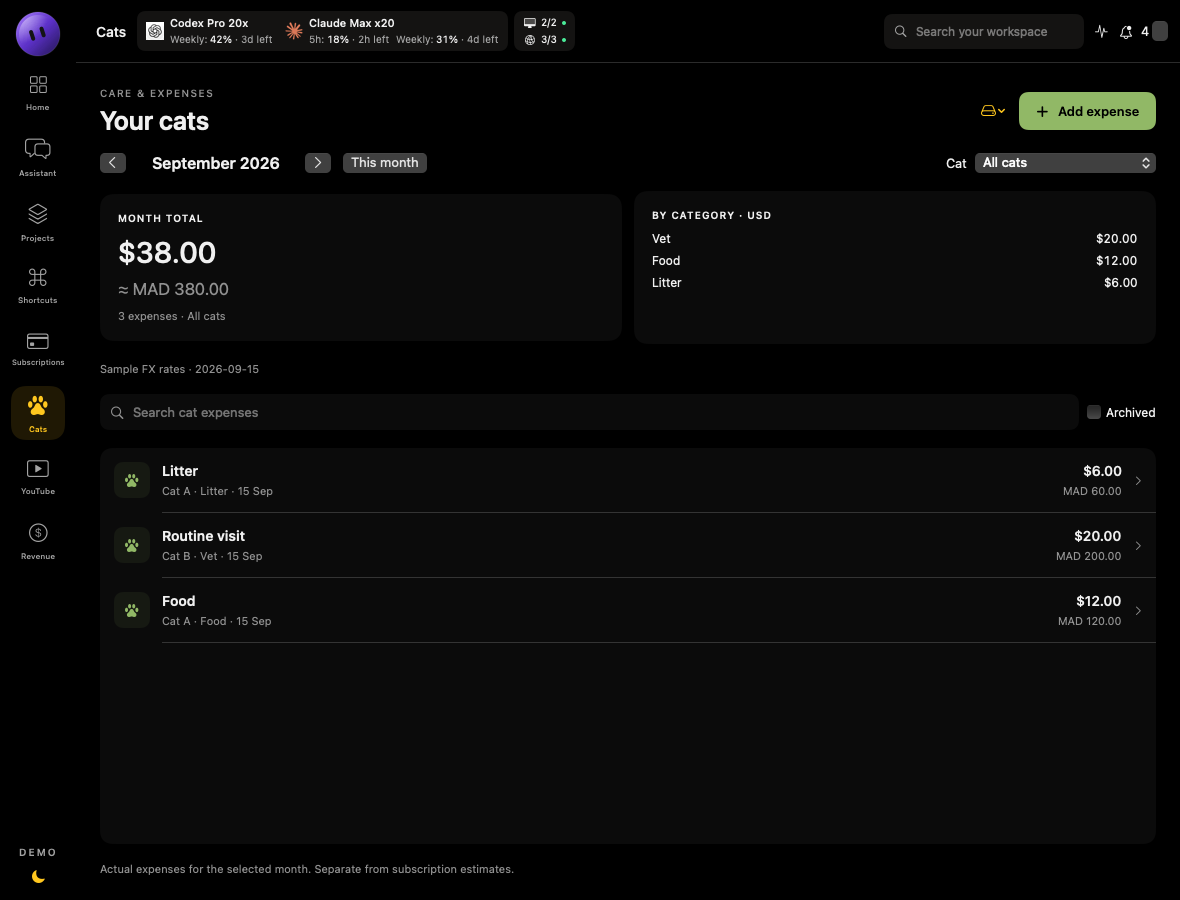
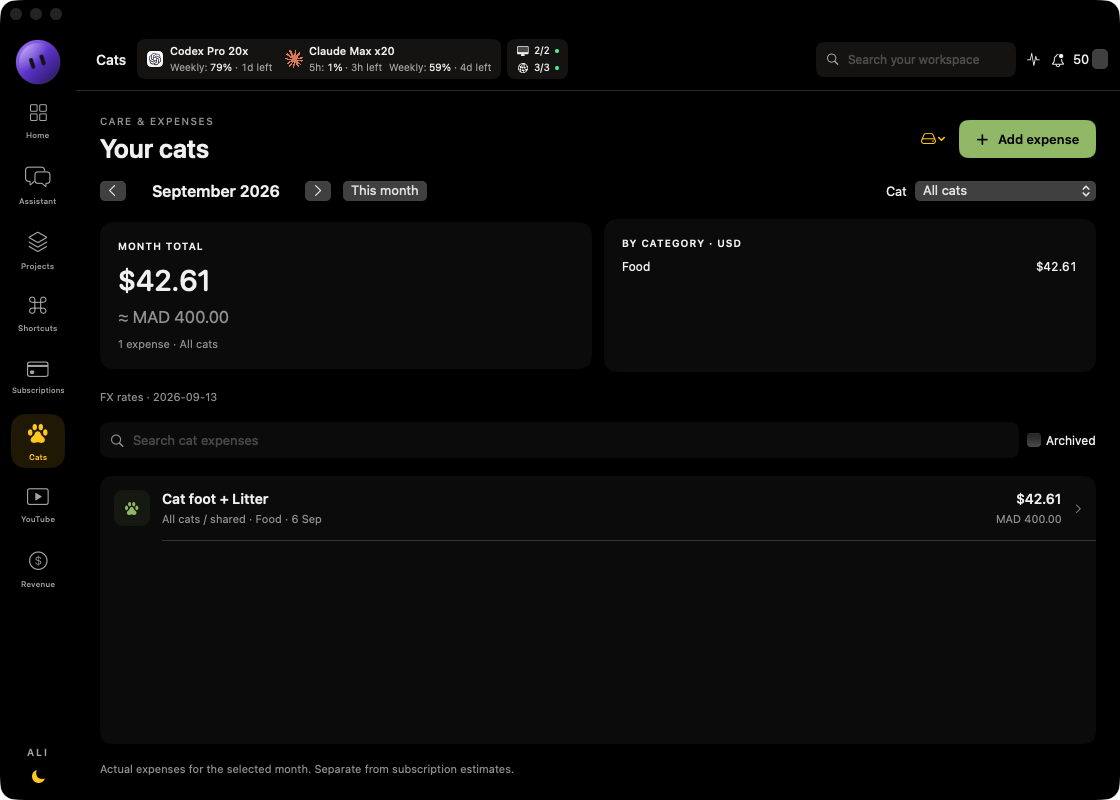
use real app screenshots for subscriptions and cats

diff --git a/README.md b/README.md
@@ -4,7 +4,7 @@
 
 Jarvis brings projects, shortcuts, subscriptions, cat expenses, YouTube analytics and account-usage indicators into one workspace. A floating widget keeps quotas and channel shortcuts within reach while using other apps.
 
-This public edition uses the application's original views. Subscription **provider and plan names** come from my actual list, with account labels, stores, domains and other identifying additions removed. Subscription amounts, dates, cycles and statuses are fictional. Channel names, projects, financial figures, machine details and account readings are also samples. Private integrations are disconnected; sample subscription amounts are not provider prices.
+This public edition uses the application's original views. The **subscriptions and cat expenses screenshots below are captures of my running personal app**, so their records, amounts, dates and totals are real. Every other screenshot, and the demo you can build from this repository, uses fictional data: subscription **provider and plan names** come from my actual list, with account labels, stores, domains and other identifying additions removed, while amounts, dates, cycles and statuses are invented. Channel names, projects, financial figures, machine details and account readings are also samples. Private integrations are disconnected; sample subscription amounts are not provider prices.
 
 ## Workspace
 
@@ -24,13 +24,13 @@ The widget uses the same quota strip and detail views as the dashboard. Its read
 
 ## Subscriptions
 
-![Orbit subscription interface with sanitized provider names and sample billing data](docs/images/subscriptions.png)
+![Orbit subscription interface with my real providers and billing data](docs/images/subscriptions.png)
 
 The original Orbit interface includes monthly and yearly USD/MAD totals, billing-cycle conversion, a renewal timeline, trials, ending plans, records needing review, search, sorting and archiving. The subscription editor retains price and date certainty, reminder settings, notes and source fields. Unknown costs and missing exchange rates are disclosed rather than counted as zero.
 
 ## Expenses and analytics
 
-![Cat expenses with fictional records](docs/images/cats.png)
+![Cat expenses with my real records](docs/images/cats.png)
 
 Cat expenses retain the original monthly view, category totals, search, filters, editing, archiving and import/export controls.
 
@@ -71,7 +71,7 @@ bash scripts/test-core.sh
 swift run JarvisDemo --check
 ```
 
-The checks cover configuration recovery, URL validation, fixture decoding, subscription totals and edits, unknown costs, missing FX, cat archiving, analytics windows and session isolation. Screenshots are rendered from the demo views with `JarvisDemo --render OUTPUT_DIRECTORY`.
+The checks cover configuration recovery, URL validation, fixture decoding, subscription totals and edits, unknown costs, missing FX, cat archiving, analytics windows and session isolation. Screenshots are rendered from the demo views with `JarvisDemo --render OUTPUT_DIRECTORY`, except the subscriptions and cat expenses images, which are window captures of the personal app.
 
 See [architecture](docs/ARCHITECTURE.md), [source fidelity](docs/SOURCE_FIDELITY.md), [publication boundaries](docs/PUBLICATION.md) and [security](SECURITY.md).
 

diff --git a/docs/PUBLICATION.md b/docs/PUBLICATION.md
@@ -8,7 +8,7 @@ This repository was assembled as a separate public edition from explicitly selec
 - The original SwiftUI views with fictional fixtures and disconnected integration adapters.
 - Explicitly approved provider and plan names, stripped of account, store, domain, person and channel/community identifiers.
 - Behavioral tests and documentation.
-- PNG images rendered directly from the public demo views.
+- PNG images rendered directly from the public demo views, apart from the subscriptions and cat expenses screenshots, which are deliberately published window captures of the personal app.
 
 ## Excluded
 
@@ -16,7 +16,7 @@ This repository was assembled as a separate public edition from explicitly selec
 - Personal configuration, account identifiers and billing records.
 - Infrastructure addresses, service configuration and private workspace paths.
 - Operational logs, private datasets, original app binaries and old build bundles.
-- Screenshots or recordings of the personal application's live state.
+- Recordings of the personal application's live state, and screenshots of it other than the two reviewed subscriptions and cat expenses images.
 
 ## Releasing changes
 
@@ -24,4 +24,4 @@ Run `python3 scripts/check_publication.py` and `bash scripts/test-core.sh` befor
 
 An allowlist or a pattern scan cannot prove that all sensitive information is absent. Review every new file and image manually. Do not add real configuration or credentials to make this demo functional; use synthetic fixtures.
 
-The render command creates images from known fictional views rather than capturing the desktop. Review regenerated images before committing them.
+The render command creates images from known fictional views rather than capturing the desktop. Review regenerated images before committing them. A capture of the personal app is published only after deciding, for that specific image, that every visible record can be public; strip its PNG metadata so the publication check passes.

diff --git a/SECURITY.md b/SECURITY.md
@@ -1,6 +1,8 @@
 # Security
 
-The demo uses an explicitly reviewed list of real provider and plan names. Account labels, store names, personal domains, people and channel/community names are removed; duplicate account entries are combined. All other record fields are fictional, including amounts, dates, billing cycles and statuses. It does not access account credentials, browser sessions, personal application storage, machine probes, remote shells or project directories. No live integration adapter is included.
+The demo uses an explicitly reviewed list of real provider and plan names. Account labels, store names, personal domains, people and channel/community names are removed; duplicate account entries are combined. All other record fields in the demo are fictional, including amounts, dates, billing cycles and statuses. The demo does not access account credentials, browser sessions, personal application storage, machine probes, remote shells or project directories. No live integration adapter is included.
+
+Two documentation images are an exception to the fictional-record rule. The subscriptions and cat expenses screenshots are captures of the personal app, so the records, amounts and totals they show are real. Both were reviewed before publication; they carry no account identifiers, credentials or file paths, and their PNG metadata is stripped.
 
 Record edits and preferences remain in session memory. Explicit import/export and artwork selection use native file pickers; these actions read or write only when requested. Artwork is stored in a unique temporary demo directory. Public provider links open when clicked. Synthetic channel and video links use example.com; thumbnails do not make network requests.
 

diff --git a/docs/SOURCE_FIDELITY.md b/docs/SOURCE_FIDELITY.md
@@ -30,4 +30,4 @@ This edition reuses the personal application's views. Demo adaptation happens pr
 
 The subscription model, billing normalization, FX conversion, validation, chart calculations and financial-window models retain the original implementation. Source comparisons were run for 14 view/model groups. The complete demo was built, its ten overview/widget images reviewed, and subscription editing and filtering checked in the running app.
 
-Fixture data illustrates existing states and controls. It does not represent provider pricing, live accounts, completed external actions or a different product design.
+Fixture data illustrates existing states and controls. It does not represent provider pricing, live accounts, completed external actions or a different product design. The subscriptions and cat expenses screenshots in the README are captures of the personal app rather than fixture renders, so the figures in those two images are real.
